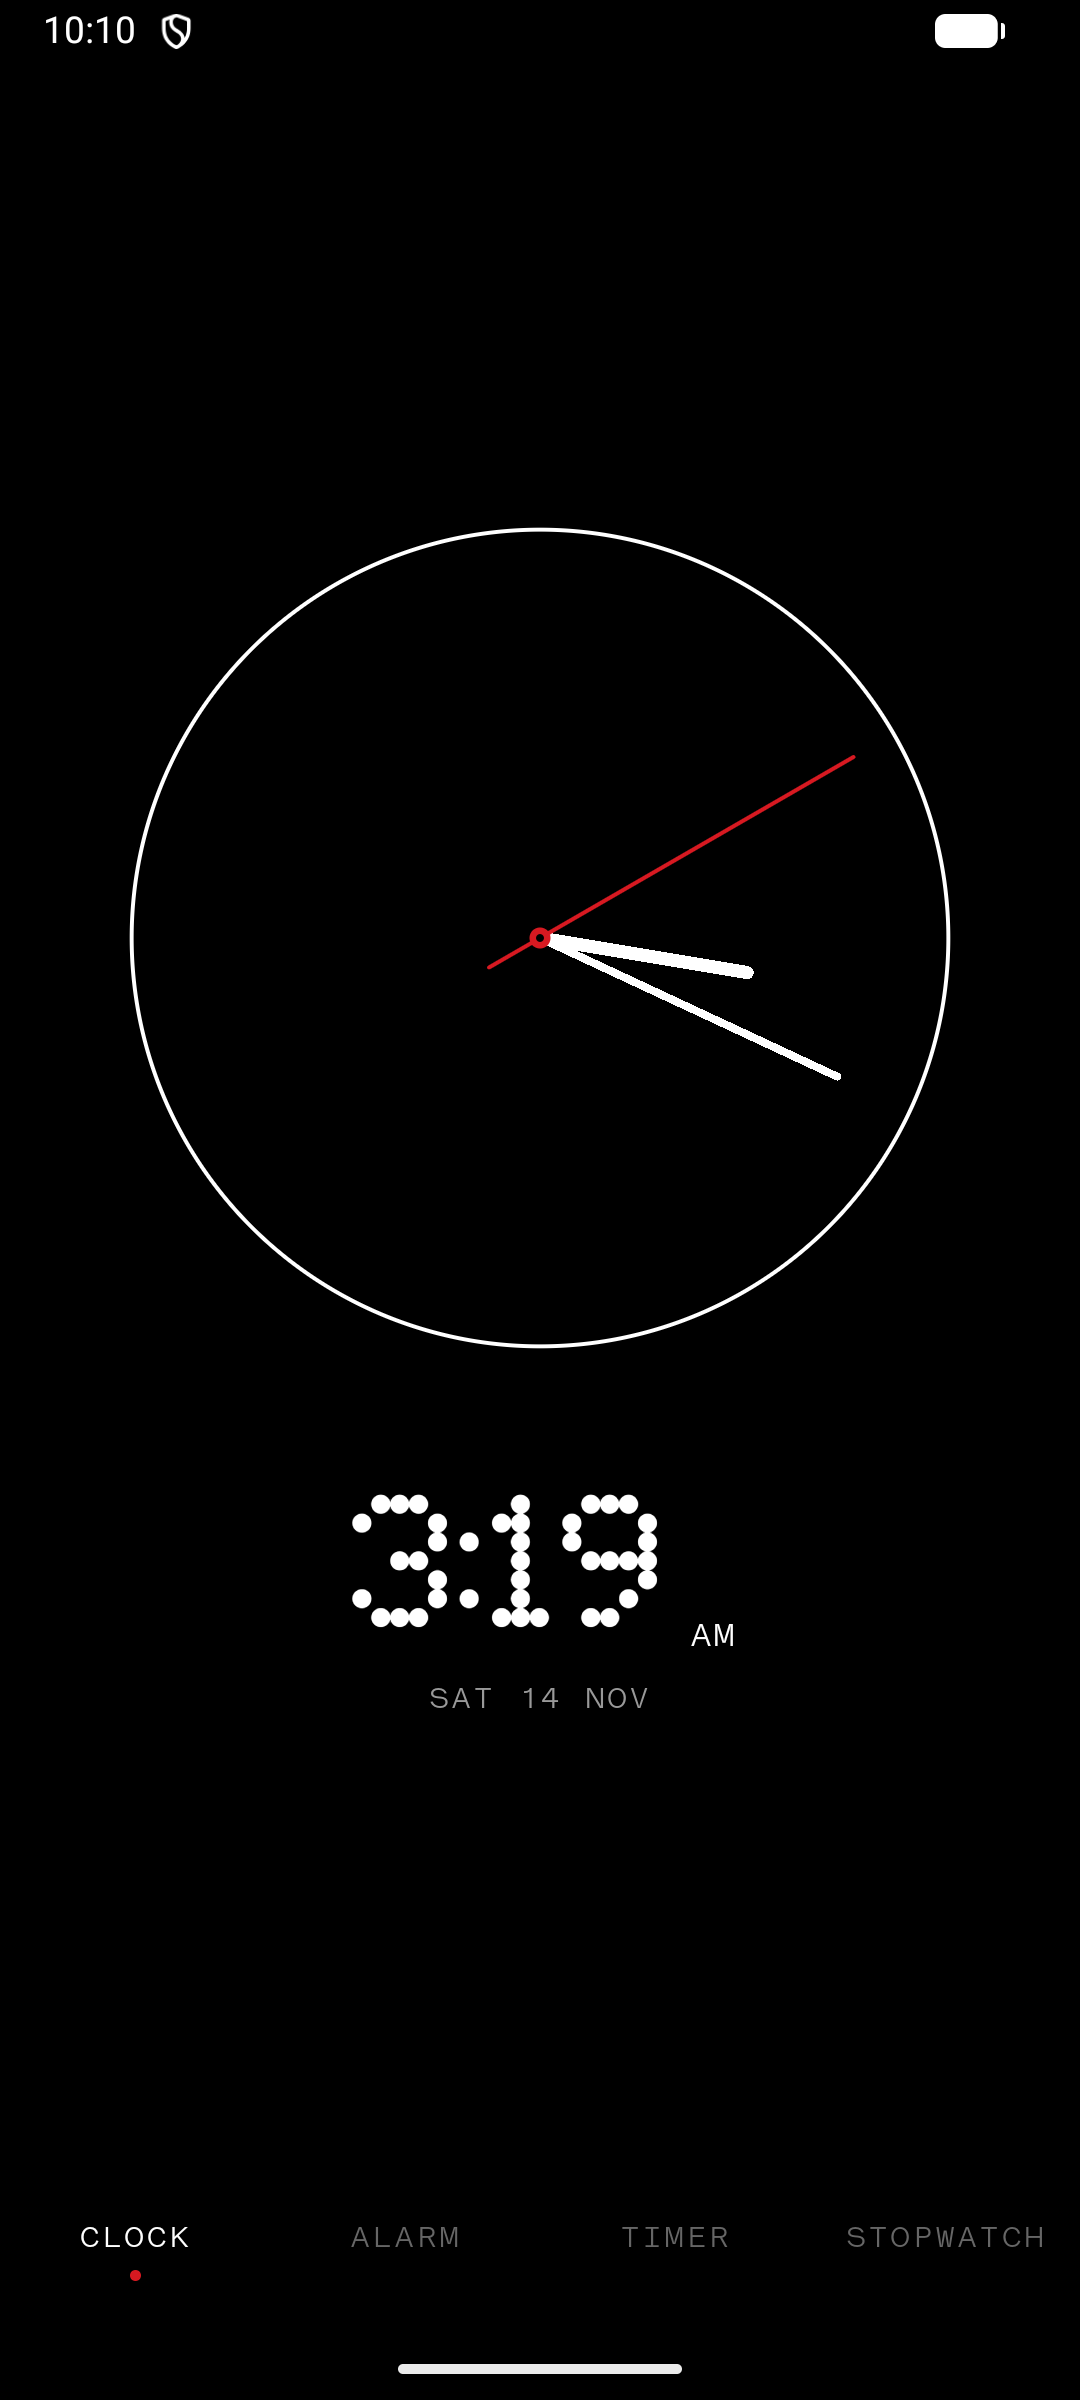
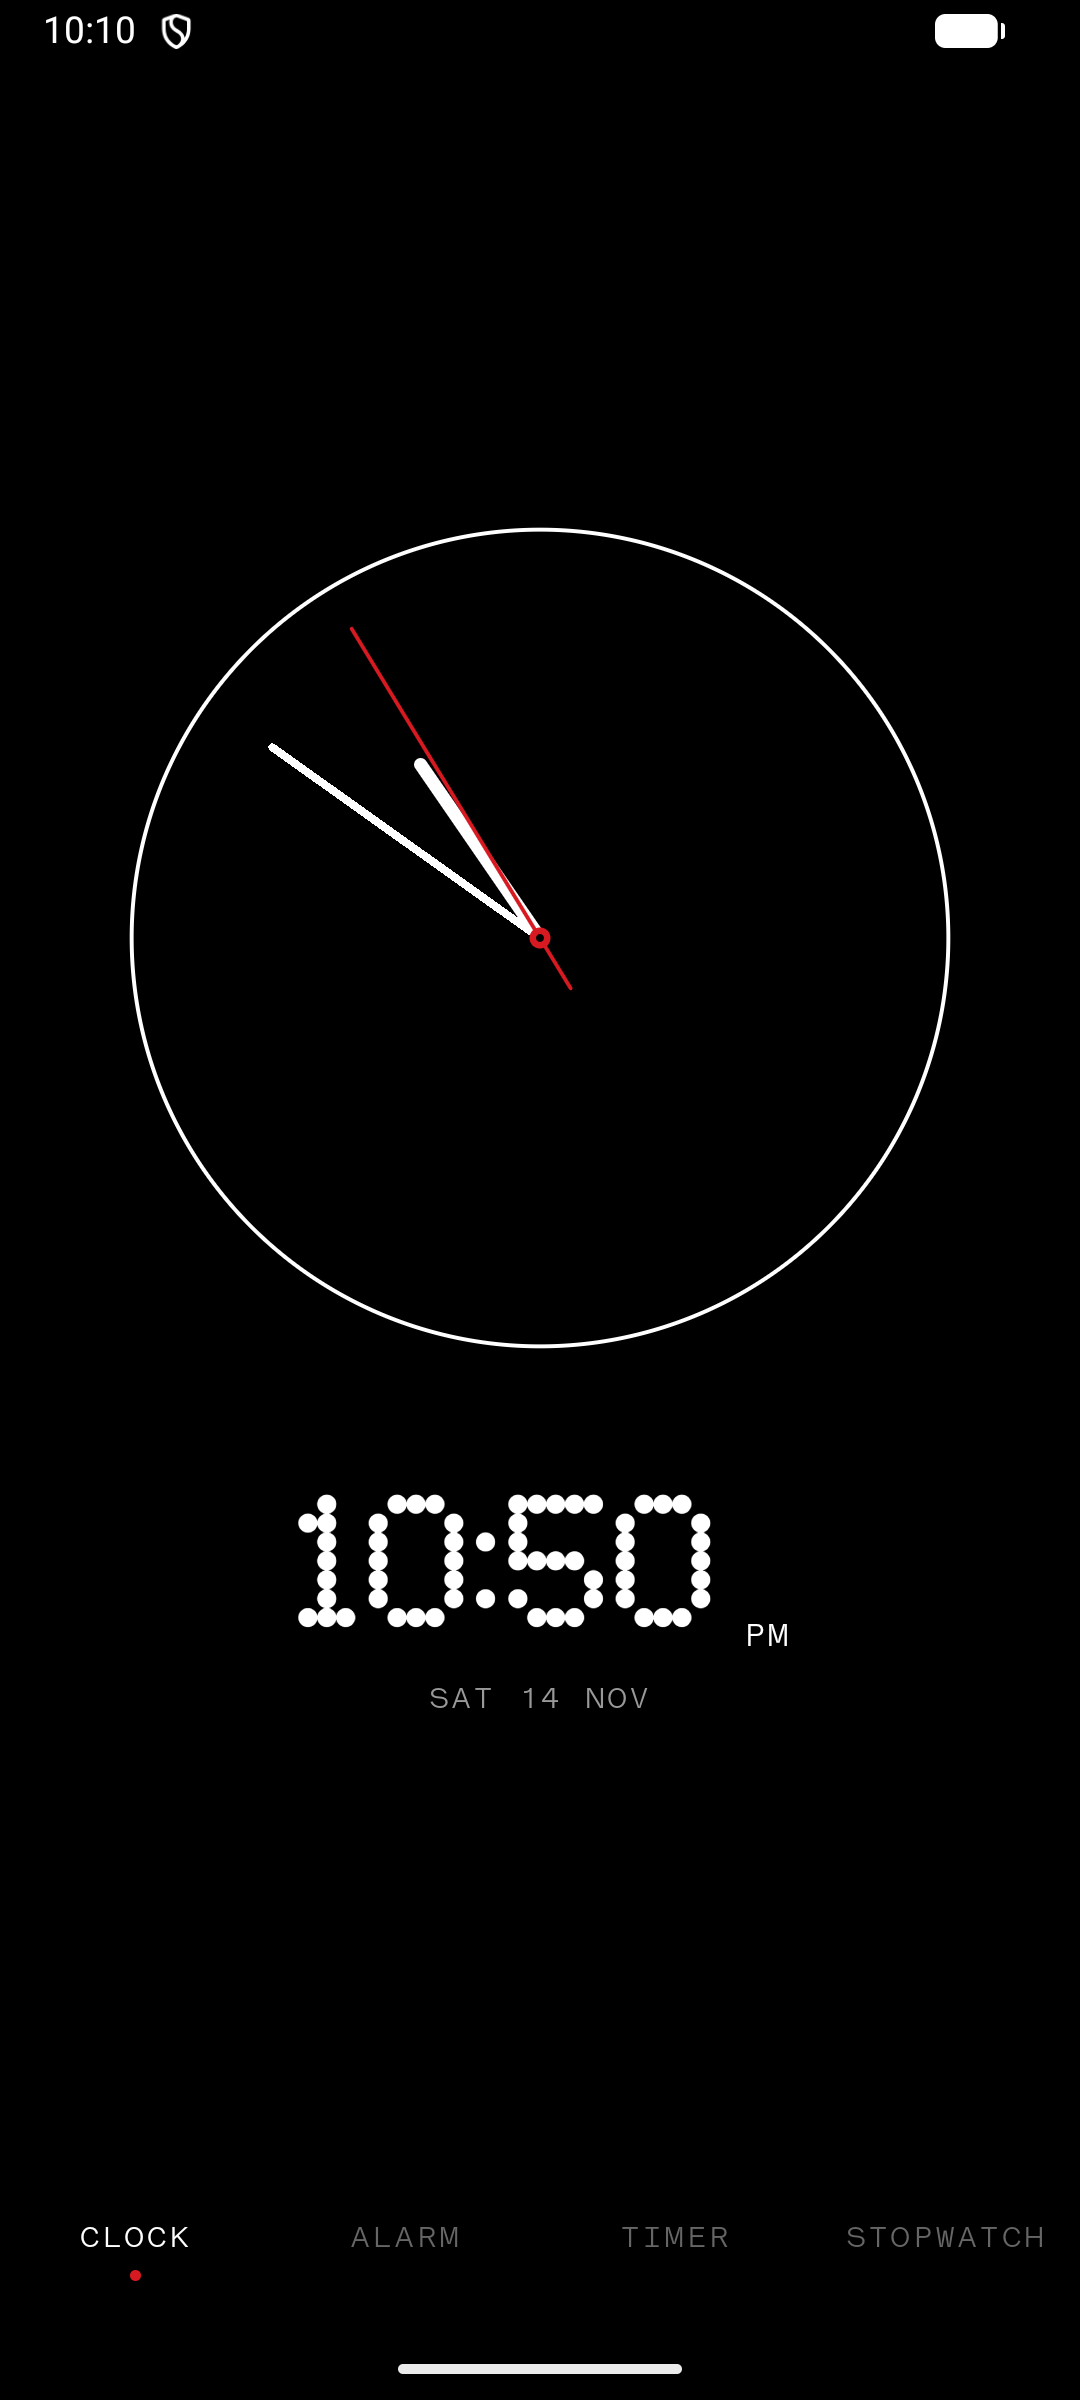
README: new screenshots and feature text for 1.2
Claude-Session: https://claude.ai/code/session_0171ixAAUMiUNeLy3cHhaWZk

diff --git a/README.md b/README.md
@@ -12,12 +12,12 @@ A minimal clock app for Android in the Nothing design language: OLED black, dot-
 ## Features
 
 ### Clock
-A clean analog dial (a thin ring, white hands, a red seconds hand) with the digital time and date underneath.
+A clean analog dial (a thin ring, white hands, a red seconds hand) with the digital time and date underneath. The hands glide rather than tick.
 
 ### Alarms
 - **Single alarms** that repeat on chosen days or ring once. They have a **SNOOZE** button.
 - **Batch alarms**: a group of alarms that you switch on and off together. Three kinds:
-  - **CUSTOM**: pick the first alarm, then add more with the `+2 +5 +10 +20 +30 +60` bubbles or a custom gap.
+  - **CUSTOM**: build it one alarm at a time. Pick a time on the dial and tap the red **+**, or use the `+1 +2 +5 +10 +20 +30` bubbles to add one that many minutes after the last.
   - **LINEAR**: a start time, an interval and a count.
   - **LOG**: a start time and a "must be up by" time. The gaps halve each time (rounded to whole minutes, never under 1 min), so the alarms get closer together as the deadline nears.
 - Batch alarms have no snooze. You get a big **OK** that stops the current ring, and a small **I'M UP** that skips the rest of that batch for today.
@@ -39,8 +39,7 @@ A clean analog dial (a thin ring, white hands, a red seconds hand) with the digi
 ### Stopwatch
 An analog stopwatch:
 - seconds round the edge;
-- a minutes sub-dial;
-- a faint hour arc;
+- a 60-dot minutes sub-dial;
 - a digital readout in the centre;
 - laps with split and total times.
 
